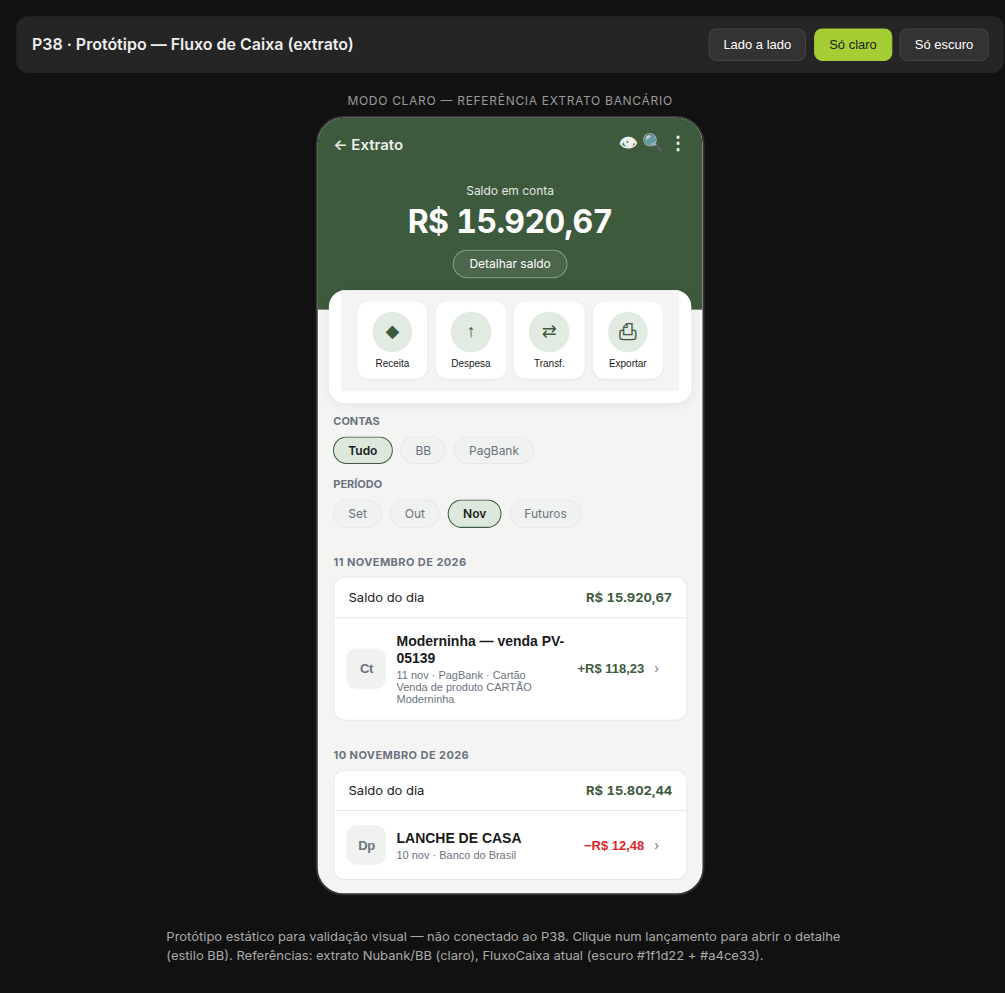
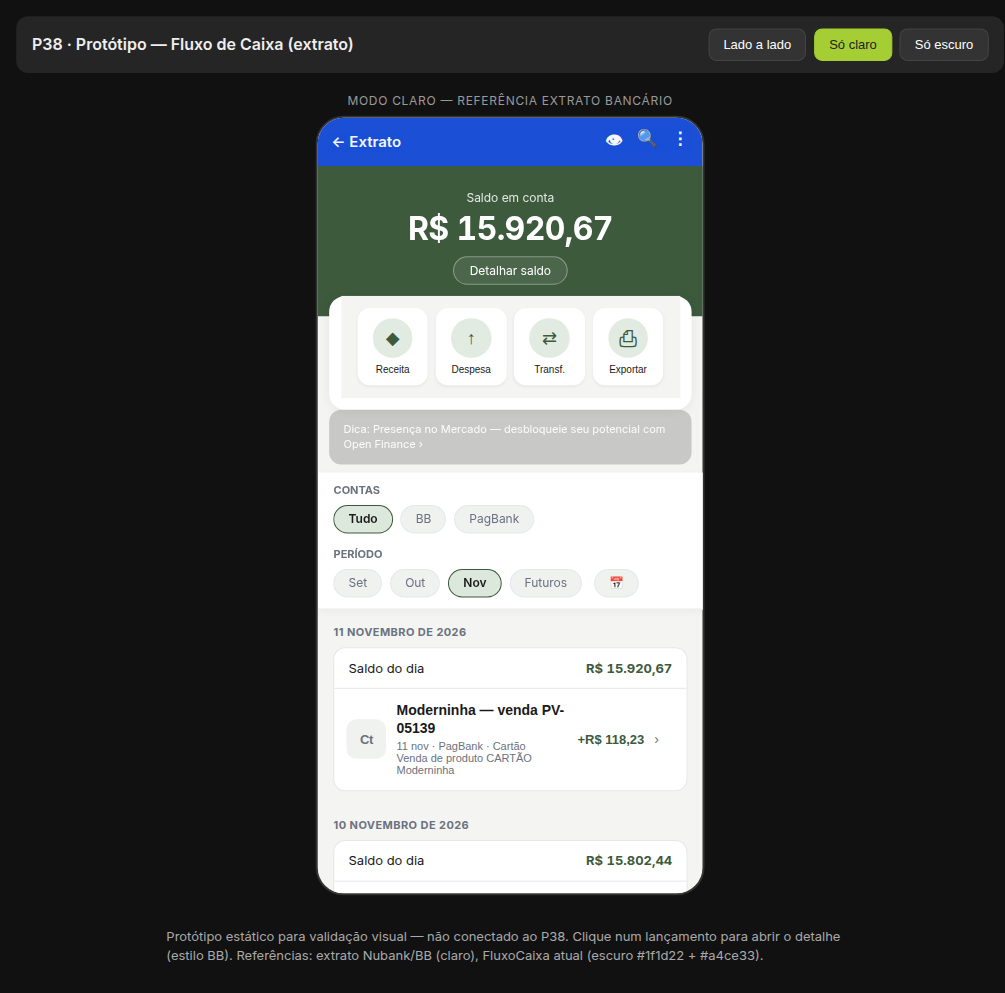
docs(prototypes): scroll colapsável modo claro estilo BB extrato

diff --git a/docs/prototypes/fluxo-caixa-extrato-prototype.html b/docs/prototypes/fluxo-caixa-extrato-prototype.html
@@ -213,6 +213,70 @@
     }
     [data-theme="light"] .shortcut-icon { background: #e2ebe2; color: var(--income); }
 
+    /* ——— Modo claro: app bar fixa + collapse no scroll (BB) ——— */
+    [data-theme="light"] .extrato-app-bar {
+      flex-shrink: 0;
+      display: flex;
+      align-items: center;
+      justify-content: space-between;
+      padding: 10px 14px;
+      background: #1a4fd6;
+      color: #fff;
+      font-size: 15px;
+      font-weight: 600;
+      z-index: 30;
+    }
+    [data-theme="light"] .extrato-app-bar-title { opacity: 0.95; }
+    [data-theme="light"] .extrato-app-bar-actions {
+      display: flex;
+      gap: 14px;
+      font-size: 17px;
+      opacity: 0.95;
+    }
+    [data-theme="light"] .extrato-scroll {
+      flex: 1;
+      min-height: 0;
+      overflow-y: auto;
+      overflow-x: hidden;
+      -webkit-overflow-scrolling: touch;
+    }
+    [data-theme="light"] .hero-collapsible {
+      overflow: hidden;
+      max-height: 520px;
+      opacity: 1;
+      transition: max-height 0.38s ease, opacity 0.28s ease;
+      will-change: max-height, opacity;
+    }
+    [data-theme="light"] .extrato-scroll.is-collapsed .hero-collapsible {
+      max-height: 0;
+      opacity: 0;
+      pointer-events: none;
+    }
+    [data-theme="light"] .hero--below-bar {
+      padding-top: 16px;
+    }
+    [data-theme="light"] .hero-dica {
+      margin: 0 12px 8px;
+      padding: 12px 14px;
+      border-radius: var(--radius);
+      background: rgba(0, 0, 0, 0.18);
+      font-size: 11px;
+      line-height: 1.4;
+      color: rgba(255, 255, 255, 0.92);
+    }
+    [data-theme="light"] .filters--sticky {
+      position: sticky;
+      top: 0;
+      z-index: 15;
+      background: var(--surface);
+      border-bottom: 1px solid var(--border);
+      box-shadow: 0 2px 8px rgba(0, 0, 0, 0.04);
+    }
+    [data-theme="light"] .extrato-scroll .list-scroll {
+      flex: none;
+      overflow: visible;
+    }
+
     .filters {
       padding: 12px 16px 8px;
       flex-shrink: 0;
@@ -463,41 +527,51 @@
         <div class="phone" data-theme="light" id="phone-light">
           <!-- list -->
           <div class="screen active" data-screen="list">
-            <div class="hero">
-              <div class="hero-nav">
-                <span>← Extrato</span>
-                <div class="hero-icons" aria-hidden="true">👁 🔍 ⋮</div>
+            <header class="extrato-app-bar" aria-label="Barra do extrato">
+              <span class="extrato-app-bar-title">← Extrato</span>
+              <div class="extrato-app-bar-actions" aria-hidden="true">
+                <span title="Ocultar valores">👁</span>
+                <span title="Buscar">🔍</span>
+                <span title="Menu">⋮</span>
               </div>
-              <div class="balance-block">
-                <p class="label">Saldo em conta</p>
-                <p class="amount" id="bal-light">R$&nbsp;15.920,67</p>
-                <span class="hero-pill">Detalhar saldo</span>
+            </header>
+            <div class="extrato-scroll" id="scroll-light">
+              <div class="hero-collapsible" id="hero-collapsible-light">
+                <div class="hero hero--below-bar">
+                  <div class="balance-block">
+                    <p class="label">Saldo em conta</p>
+                    <p class="amount" id="bal-light">R$&nbsp;15.920,67</p>
+                    <span class="hero-pill">Detalhar saldo</span>
+                  </div>
+                </div>
+                <div class="shortcuts-wrap">
+                  <div class="shortcuts">
+                    <button type="button" class="shortcut" title="Protótipo"><span class="shortcut-icon">◆</span>Receita</button>
+                    <button type="button" class="shortcut"><span class="shortcut-icon">↑</span>Despesa</button>
+                    <button type="button" class="shortcut"><span class="shortcut-icon">⇄</span>Transf.</button>
+                    <button type="button" class="shortcut"><span class="shortcut-icon">⎙</span>Exportar</button>
+                  </div>
+                </div>
+                <p class="hero-dica">Dica: Presença no Mercado — desbloqueie seu potencial com Open Finance ›</p>
               </div>
+              <div class="filters filters--sticky">
+                <h3>Contas</h3>
+                <div class="chips" data-chips="conta">
+                  <span class="chip on">Tudo</span>
+                  <span class="chip">BB</span>
+                  <span class="chip">PagBank</span>
+                </div>
+                <h3 style="margin-top:10px">Período</h3>
+                <div class="chips">
+                  <span class="chip">Set</span>
+                  <span class="chip">Out</span>
+                  <span class="chip on">Nov</span>
+                  <span class="chip">Futuros</span>
+                  <span class="chip" style="margin-left:4px" title="Calendário">📅</span>
+                </div>
+              </div>
+              <div class="list-scroll" id="list-light"></div>
             </div>
-            <div class="shortcuts-wrap">
-              <div class="shortcuts">
-                <button type="button" class="shortcut" title="Protótipo"><span class="shortcut-icon">◆</span>Receita</button>
-                <button type="button" class="shortcut"><span class="shortcut-icon">↑</span>Despesa</button>
-                <button type="button" class="shortcut"><span class="shortcut-icon">⇄</span>Transf.</button>
-                <button type="button" class="shortcut"><span class="shortcut-icon">⎙</span>Exportar</button>
-              </div>
-            </div>
-            <div class="filters">
-              <h3>Contas</h3>
-              <div class="chips" data-chips="conta">
-                <span class="chip on">Tudo</span>
-                <span class="chip">BB</span>
-                <span class="chip">PagBank</span>
-              </div>
-              <h3 style="margin-top:10px">Período</h3>
-              <div class="chips">
-                <span class="chip">Set</span>
-                <span class="chip">Out</span>
-                <span class="chip on">Nov</span>
-                <span class="chip">Futuros</span>
-              </div>
-            </div>
-            <div class="list-scroll" id="list-light"></div>
           </div>
           <!-- detail -->
           <div class="screen" data-screen="detail">
@@ -763,6 +837,16 @@
     renderList(document.getElementById('list-dark'));
     wireBack(document.getElementById('phone-light'));
     wireBack(document.getElementById('phone-dark'));
+
+    function wireExtratoCollapse(scrollEl, threshold = 20) {
+      if (!scrollEl) return;
+      const apply = () => {
+        scrollEl.classList.toggle('is-collapsed', scrollEl.scrollTop > threshold);
+      };
+      scrollEl.addEventListener('scroll', apply, { passive: true });
+      apply();
+    }
+    wireExtratoCollapse(document.getElementById('scroll-light'));
 
     const phonesEl = document.getElementById('phones');
     const viewBtns = { split: 'view-split', light: 'view-light', dark: 'view-dark' };
